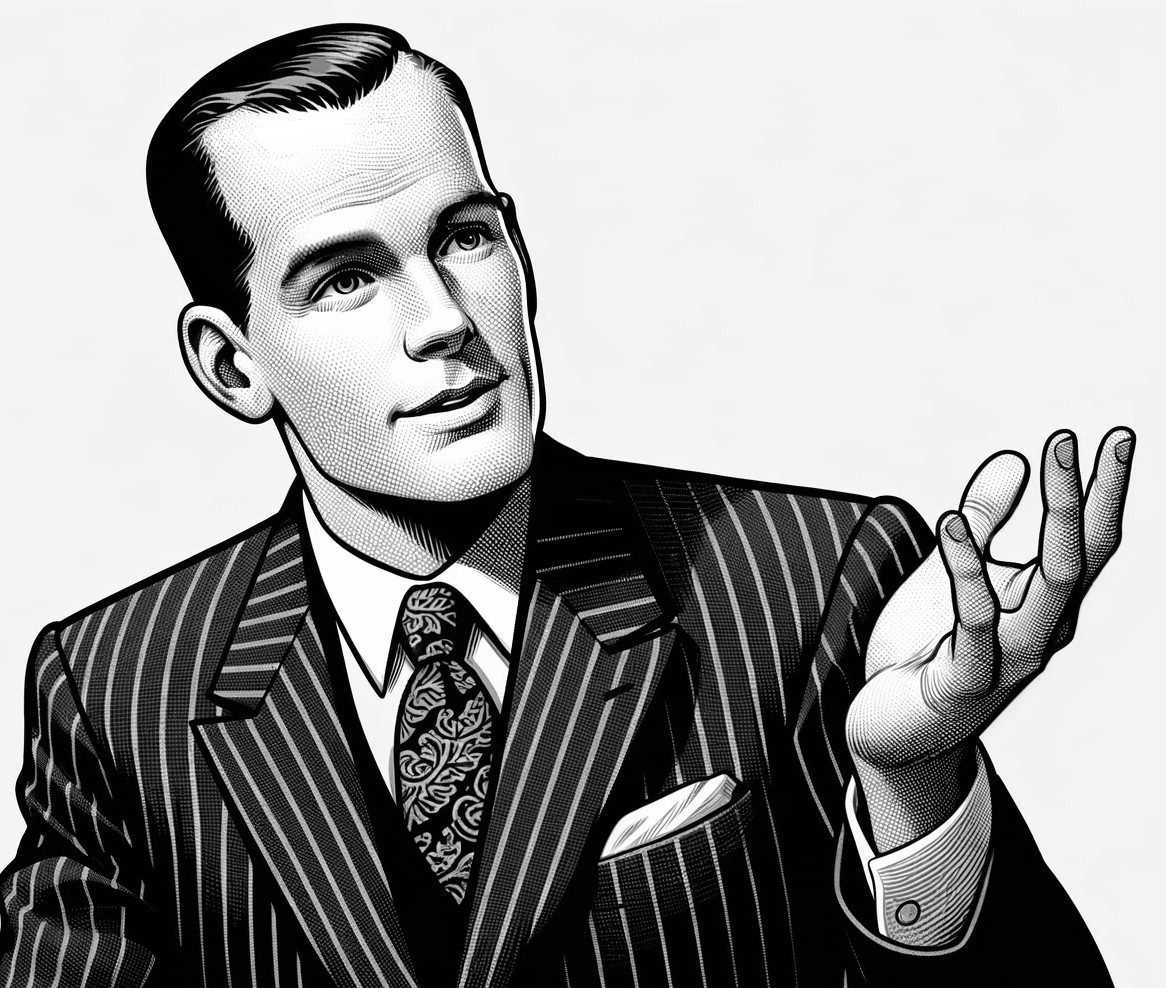
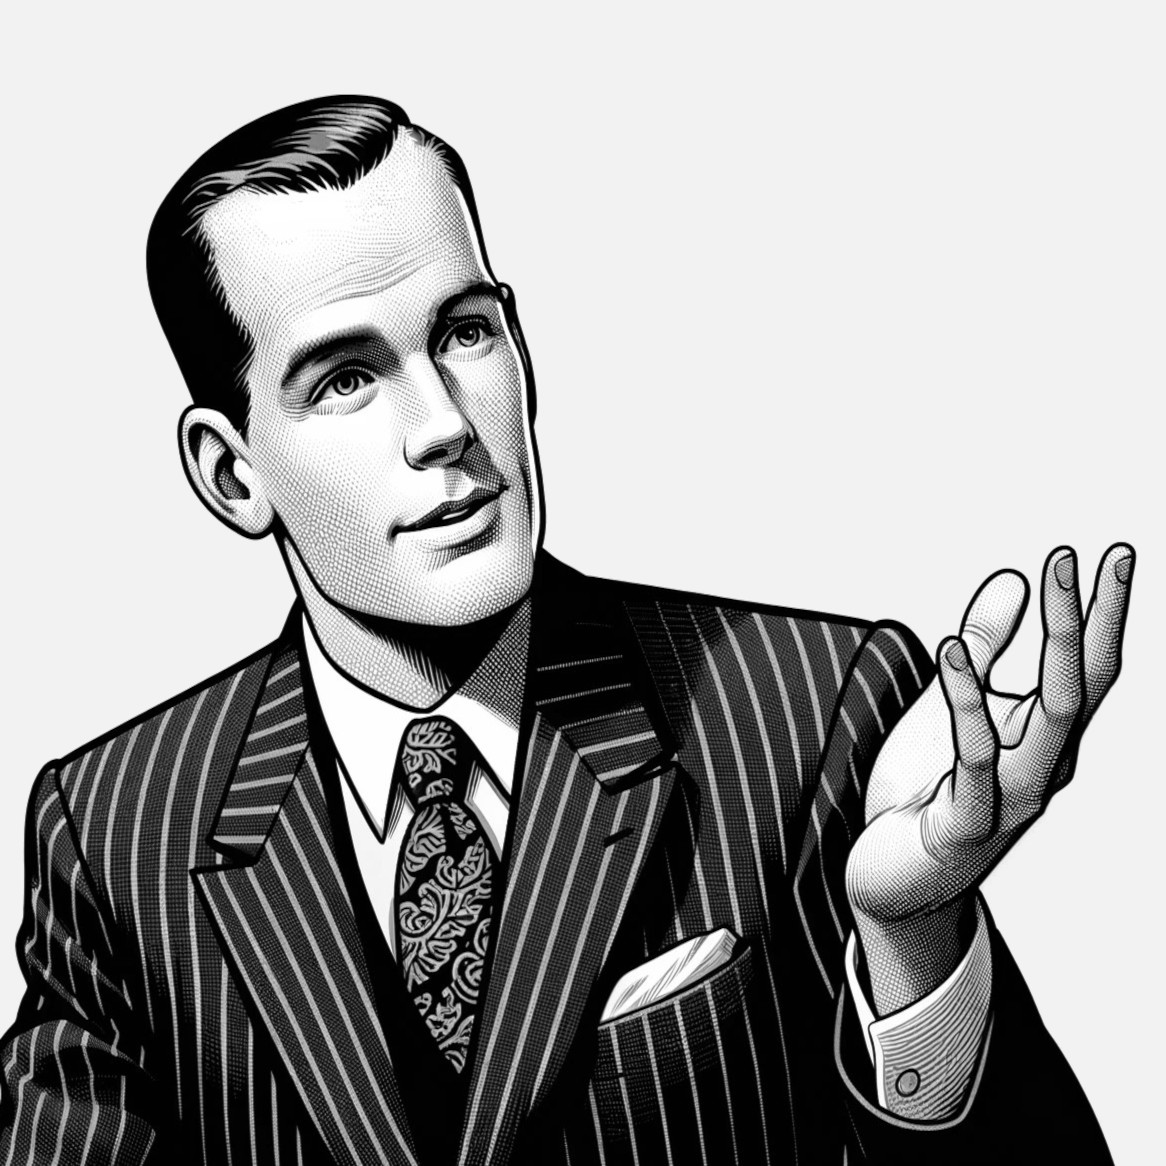
profile photo styling

diff --git a/src/components/ArticleLists/components/Profiles.js b/src/components/ArticleLists/components/Profiles.js
@@ -1,8 +1,8 @@
 export function Profiles(){
     const profiles = ["rasmussen", "halpern", "clark", "dekker"]
-    const p = profiles.map(pro => <a href={"..#/researcher/"+pro}><img src={"../img/"+pro+".jpg"} alt={pro}/></a>)
+    const p = profiles.map(pro =>  <div className="profile-photo"><a href={"..#/researcher/"+pro}><img src={"../img/"+pro+".jpg"} alt={pro} className="img-fluid"/></a></div>)
     return(
-      <div className="profile-photo">
+      <div className="profile-photo-block clearfix">
         {p}
       </div>
     )

diff --git a/src/App.css b/src/App.css
@@ -19,12 +19,23 @@ body {
   font-weight:600;
 }
 
+.profile-photo-block{
+  margin: 10px 5px 10px 5px;
+}
+
+.profile-photo{
+  float:left;
+  margin: 5px;
+}
+
+.profile-photo a{
+  padding: 0px !important;
+}
+
 .profile-photo img{
   border-radius: 50% !important;
-  float:none !important;
-  margin: 5px;
-  width: 200px;
-  height: 200px;
+  max-height: 200px;
+  max-width: 200px;
 }
 
 .content a, #extra a {
